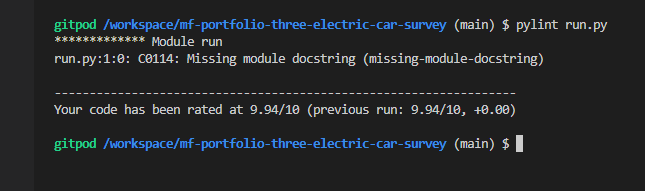
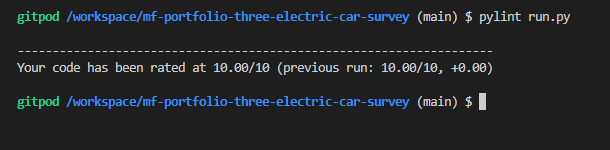
Add a module doc string and update section 9.1 of the readme

Changed region(s): [[0.0311, 0.5333, 0.8098, 0.8], [0.0311, 0.0533, 0.9656, 0.3467], [0.0311, 0.4, 0.8098, 0.5067]]

diff --git a/run.py b/run.py
@@ -1,3 +1,6 @@
+"""
+Module for Survey
+"""
 import gspread
 from google.oauth2.service_account import Credentials
 from colorama import Fore, Style
